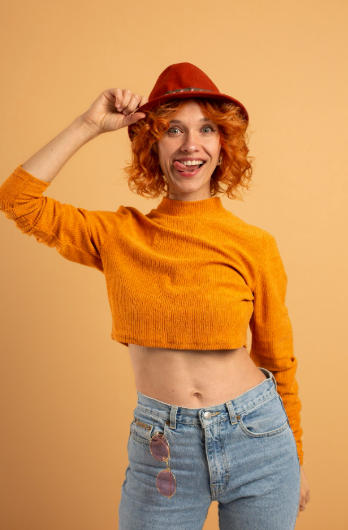
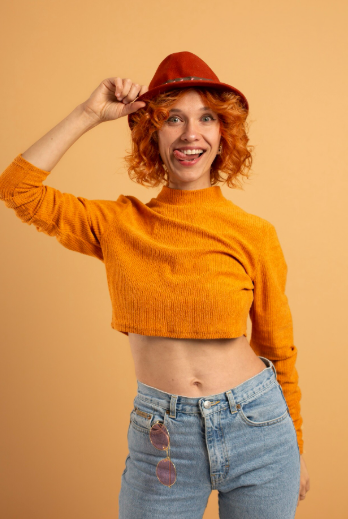
feat: add iframe url to README

diff --git a/README.md b/README.md
@@ -64,3 +64,12 @@ You have the following indications from the frontend manager:
 - The logic to implement will be placed in the src/grocery.js and src/checkout.js files. You will see that the built in functions have already been created for you to implement them.
 
 - It is forbidden to copy the code, since this way you don't learn anything. Furthermore, as you can see, the second release of sprint 5 is a mini-level test with the mentor, in which you will have to demonstrate live that you have acquired the javascript concepts. Don't worry, if you work on the releases you won't have any problems.
+
+
+<p align="center">
+  <h2>🔗 Lloc Web del Projecte (GitHub Pages)</h2>
+</p>
+
+<iframe src="https://triflip.github.io/S2.2.E-commerce/" width="100%" height="600px">
+  <p>El teu navegador no suporta iframes.</p>
+</iframe>
